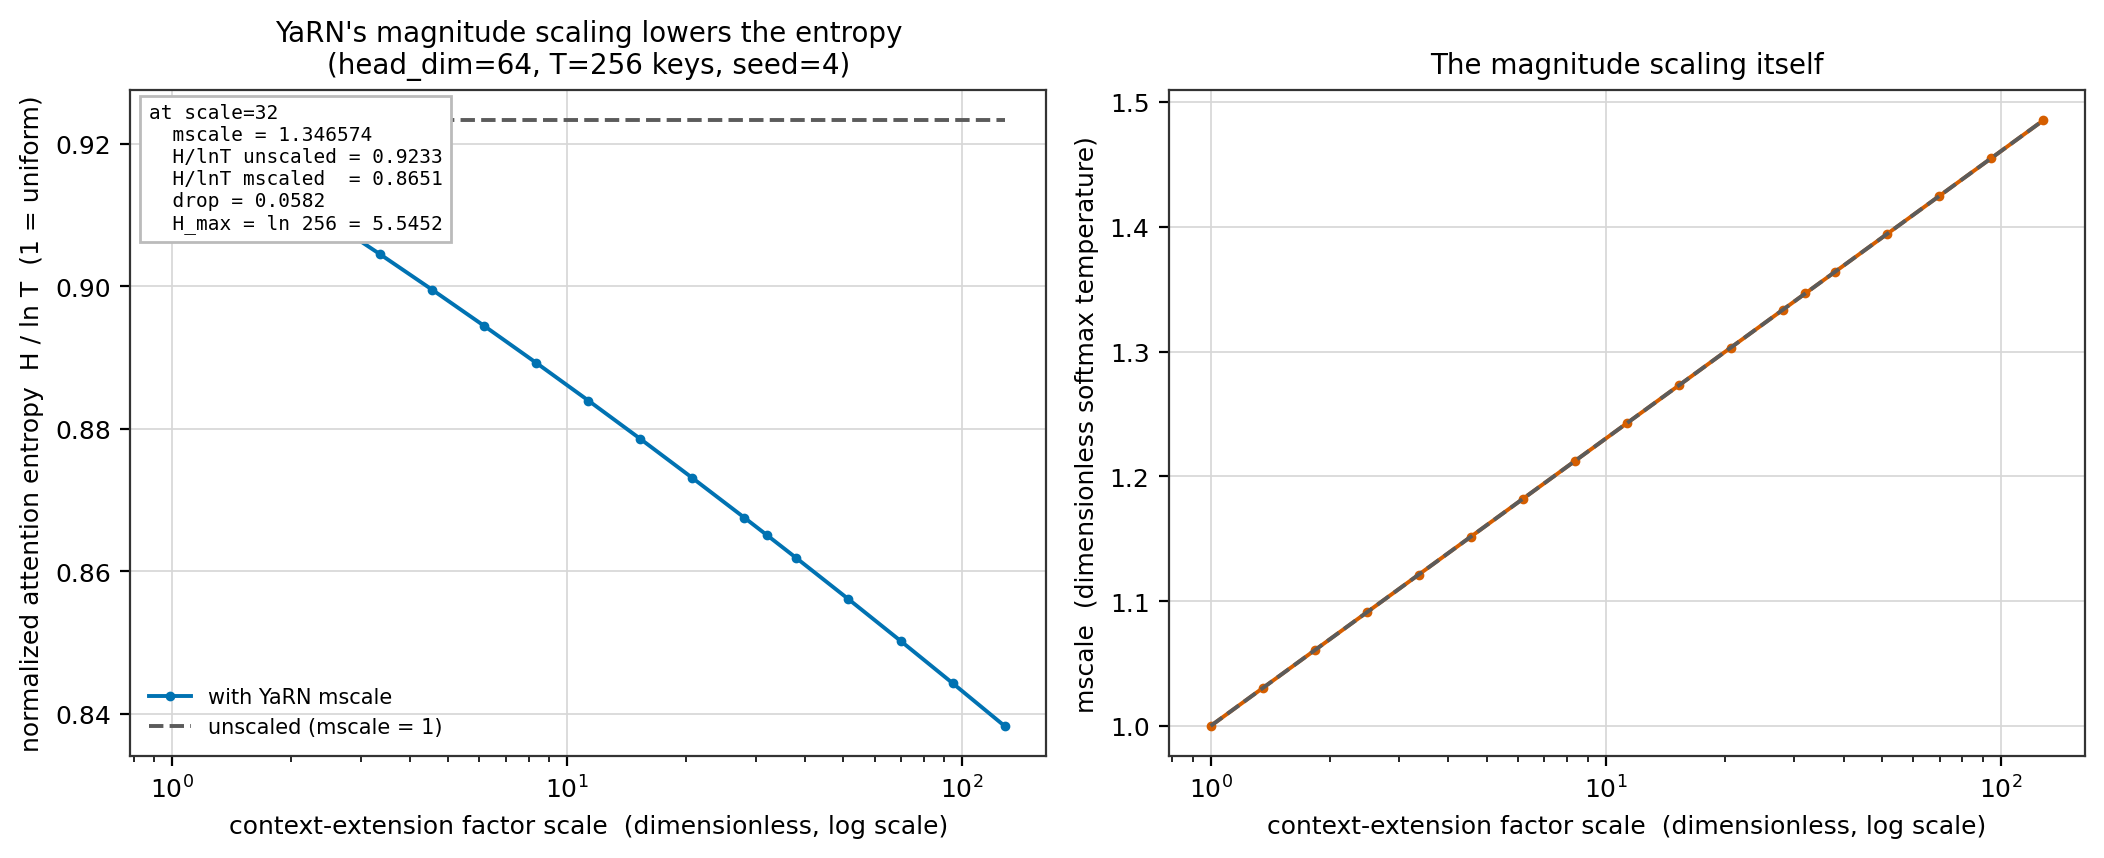
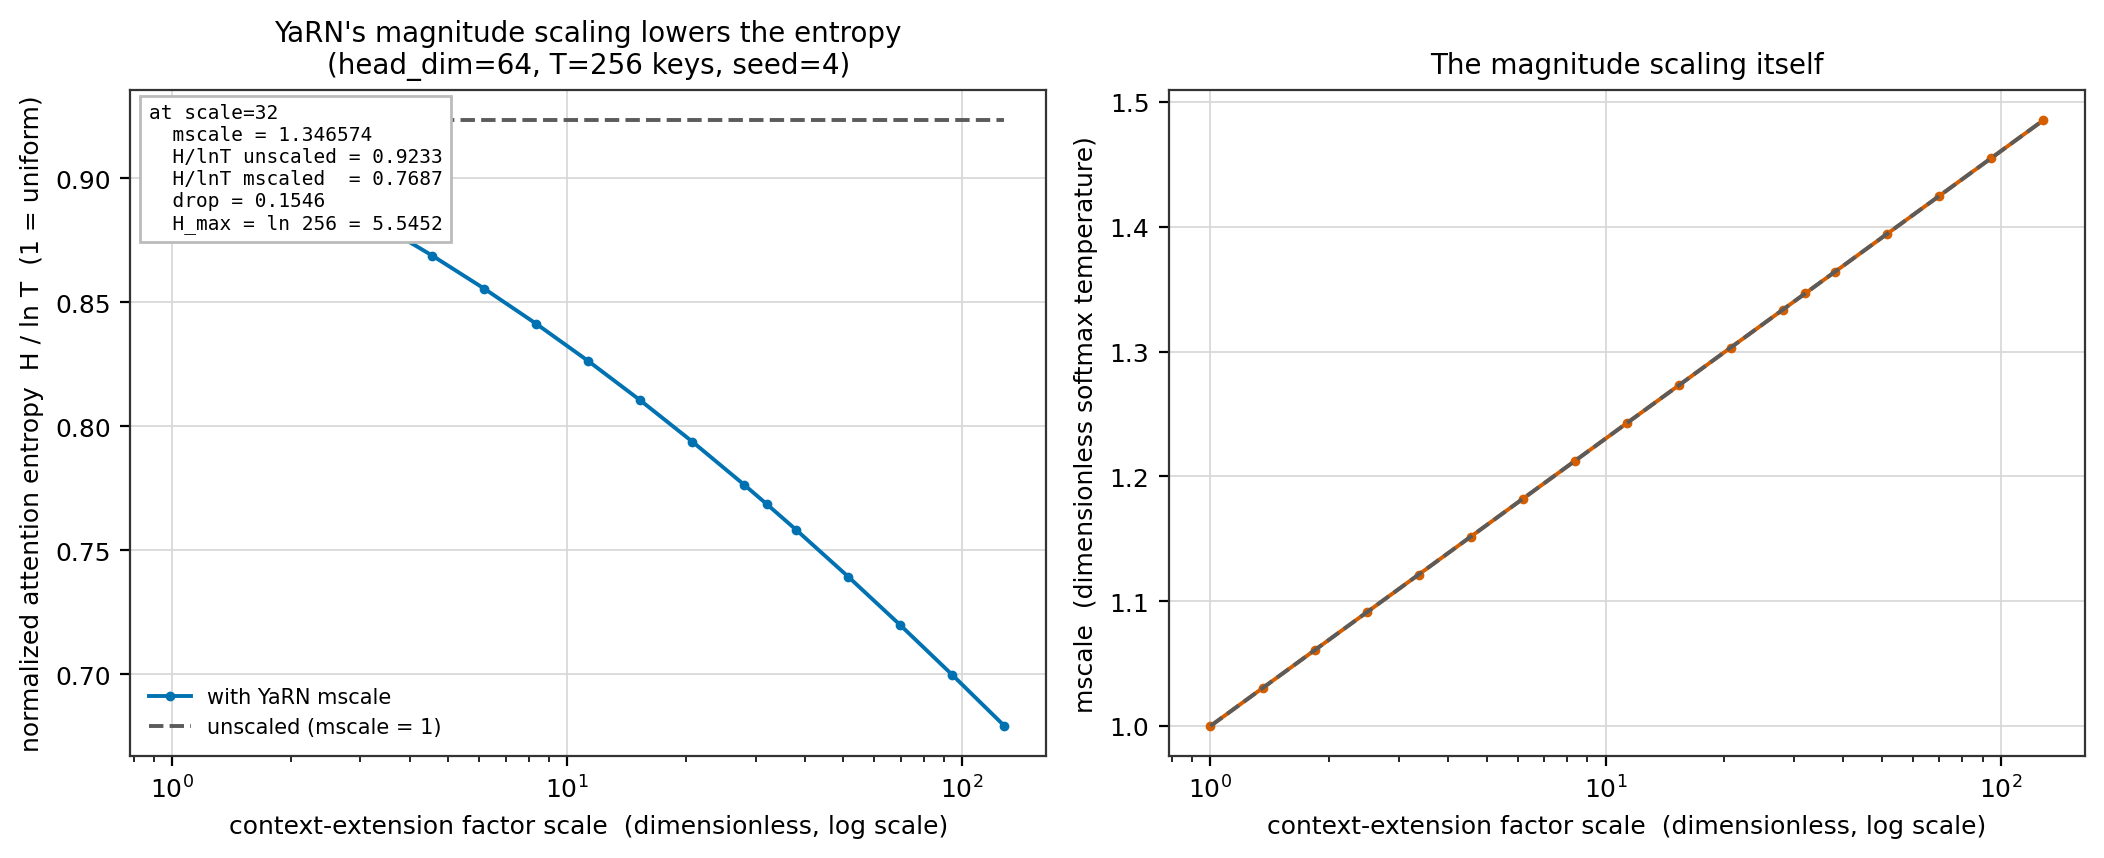
mscale: apply the YaRN factor the way the repo's own RoPE does, and fix a sentence that contradicted its own numbers
The experiment applied mscale once to the logits while rope.rope_cos_sin
scales the cos/sin tables and apply_rope consumes them for BOTH q and k, so a
logit carries mscale ** 2. The quoted entropy numbers were the once-applied
variant.

- experiments.mscale_entropy now builds its logits through
  rope_cos_sin(..., mscale) + apply_rope, so it can no longer drift from
  rope.py; the probe reproduces the faithful H/lnT 0.9233 -> 0.7687 (drop
  0.1546; absolute 5.1198 -> 4.2627 nats).
- results/measurements.json regenerated (entropy_mscaled 4.797042631875421 ->
  4.262667547726755; ratio 0.8650837019924513 -> 0.7687161665079636);
  figures/fig08 CSV and PNG and the figures/README.md row regenerated;
  README.md and LEGACY.md's maintained-measurement row updated.
- paper/main.tex: the appendix derives from the tables-times-two-operands
  semantics ("carries mscale^2 --- precisely a temperature"), the two quoted
  numbers move to 0.7687 / 0.6792, and the sentence that called 0.1546 a drop
  "in absolute nats" is corrected --- 0.1546 is the normalized drop, while
  5.1198 -> 4.2627 is the raw-entropy fall.
- tests: the detector recomputes with mscale**2 (it is the only test that
  rebuilds the entropies from an independent construction); pinned literals
  move to 4.262667547726755 / 0.7687161665079636; two paper registry patterns
  follow the corrected sentence, capturing the same values as before.

Mutation verdicts (run live):
- reverting only the mscale fix fails
[…]

diff --git a/paper/main.tex b/paper/main.tex
@@ -706,7 +706,7 @@ position-free attribution, whose failure is in R2.
 
 Two further findings are in the appendices, neither part of R1--R3:
 Appendix~\ref{sec:partial} (partial RoPE yields an \emph{exactly} position-free
-sub-score) and Appendix~\ref{sec:mscale} (\yarn's magnitude factor is exactly a
+sub-score) and Appendix~\ref{sec:mscale} (\yarn's magnitude factor acts as a
 temperature, monotone in entropy across $18$ scales).
 
 \section{Limitations}
@@ -888,8 +888,8 @@ Sec.~\ref{sec:partial} & $0.0$, $11.34$, $24.20$ & \texttt{measurements.json :: 
  & $0.302$, $0.187$ & \texttt{clean\_magnitude\_share\_mean}; fig07 \texttt{clean\_subscore} \\
  & $<10^{-13}$, $1.776\!\times\!10^{-15}$ & \texttt{partial\_norm\_deviation}; full-RoPE floor \\
 Sec.~\ref{sec:mscale} & $1.3465736$ & \texttt{measurements.json :: mscale\_entropy.mscale} \\
- & $0.9233 \to 0.8651$ & \texttt{entropy\_ratio\_unscaled}, \texttt{\_mscaled} \\
- & $0.8383$, $1.4852$ & \texttt{fig08} CSV at $\mathrm{scale} = 128$ \\
+ & $0.9233 \to 0.7687$ & \texttt{entropy\_ratio\_unscaled}, \texttt{\_mscaled} \\
+ & $0.6792$, $1.4852$ & \texttt{fig08} CSV at $\mathrm{scale} = 128$ \\
 \bottomrule
 \end{tabular}
 \end{table*}
@@ -1086,10 +1086,11 @@ suggestion that partial rotation damages the magnitude gate.
 \subsection{$\mathrm{mscale}$ is a temperature}
 \label{sec:mscale}
 
-\yarn's magnitude factor of Equation~\ref{eq:mscale} multiplies every logit,
-which is precisely a temperature on the attention distribution. At $s = 32$ we
-measure $\mathrm{mscale} = 1.3465736$, matching the closed form
-$0.1\ln 32 + 1$ to all printed digits.
+\yarn's magnitude factor of Equation~\ref{eq:mscale} scales the $\cos$ and
+$\sin$ tables, which RoPE applies to both the query and the key, so every logit
+carries $\mathrm{mscale}^2$ --- precisely a temperature on the attention
+distribution. At $s = 32$ we measure $\mathrm{mscale} = 1.3465736$, matching the
+closed form $0.1\ln 32 + 1$ to all printed digits.
 
 \paperfigure{fig08_mscale_entropy}{%
   Normalized attention entropy $H/\ln T$ against extension factor, with and
@@ -1100,9 +1101,9 @@ $0.1\ln 32 + 1$ to all printed digits.
 
 Figure~\ref{fig:entropy} plots this. With one query against $T = 256$ keys,
 $\mathrm{mscale}$ moves the normalized entropy from $H/\ln T = 0.9233$ to
-$0.8651$, a drop of $0.0582$ in absolute
-nats, from $5.1198$ to $4.7970$. Across the full range of $18$ extension
-factors from $1$ to $128$, the effect is monotone: $H/\ln T$ falls to $0.8383$
+$0.7687$, a drop of $0.1546$; the raw entropy
+falls from $5.1198$ to $4.2627$ nats. Across the full range of $18$ extension
+factors from $1$ to $128$, the effect is monotone: $H/\ln T$ falls to $0.6792$
 as $\mathrm{mscale}$ rises to $1.4852$. Lowering entropy is a sharpening of the
 attention distribution: fewer keys receive appreciable mass. This is a real,
 measurable, and easily overlooked side effect of context extension that is not

diff --git a/projects/rope_attribution/experiments.py b/projects/rope_attribution/experiments.py
@@ -456,7 +456,12 @@ def mscale_entropy(
     n_keys: int = 256,
     seed: int = 4,
 ) -> dict:
-    """YaRN's magnitude scaling as a temperature change on the attention distribution."""
+    """YaRN's magnitude scaling as a temperature change on the attention distribution.
+
+    ``rope_cos_sin`` scales the cos/sin tables by ``mscale`` and ``apply_rope``
+    consumes those tables for *both* the query and the key, so every attention
+    logit carries ``mscale ** 2`` -- the factor is applied once per operand.
+    """
     rng = _rng(seed)
     _, mscale = yarn_parameters(dim, 10000.0, scale, original_max_position_embeddings)
     freqs = inv_freq(dim)
@@ -465,19 +470,21 @@ def mscale_entropy(
     deltas = np.arange(1, n_keys + 1)
 
     pos = np.concatenate([[0], deltas])
-    cos, sin = rope_cos_sin(pos, freqs)
-    scores = apply_rope(q_hat[None, :], cos[0:1], sin[0:1])[0] @ apply_rope(
-        k_hat, cos[1:], sin[1:]
-    ).T
-    scores = scores / math.sqrt(dim)
+
+    def logits(table_scale: float) -> np.ndarray:
+        cos, sin = rope_cos_sin(pos, freqs, table_scale)
+        scores = apply_rope(q_hat[None, :], cos[0:1], sin[0:1])[0] @ apply_rope(
+            k_hat, cos[1:], sin[1:]
+        ).T
+        return scores / math.sqrt(dim)
 
     def entropy(s: np.ndarray) -> float:
         p = np.exp(s - s.max())
         p /= p.sum()
         return float(-(p * np.log(p + 1e-300)).sum())
 
-    h_base = entropy(scores)
-    h_scaled = entropy(scores * mscale)
+    h_base = entropy(logits(1.0))
+    h_scaled = entropy(logits(mscale))
     return {
         "n_keys": n_keys,
         "scale": scale,

diff --git a/tests/test_paper_claims.py b/tests/test_paper_claims.py
@@ -417,10 +417,10 @@ CLAIMS: tuple[Claim, ...] = (
     Claim("mscale_value", r"measure \$\\mathrm\{mscale\} = (1\.3465736)\$"),
     Claim("mscale_value_prov", r"&\s*\$(1\.3465736)\$ & \\texttt\{measurements\.json :: mscale"),
     Claim("entropy_from", r"normalized entropy from \$H/\\ln T = (\d\.\d+)\$ to"),
-    Claim("entropy_to", r"\$H/\\ln T = \d\.\d+\$ to \$(\d\.\d+)\$, a drop of \$(\d\.\d+)\$ in absolute"),
-    Claim("entropy_nats_from", r"nats, from \$(\d\.\d+)\$ to \$(\d\.\d+)\$"),
-    Claim("entropy_scale_range", r"factors from \$1\$ to \$(\d+)\$, the effect is monotone: \$H/\\ln T\$ falls to \$(0\.8383)\$ as \$\\mathrm\{mscale\}\$ rises to \$(1\.4852)\$"),
-    Claim("entropy_128_prov", r"&\s*\$(0\.8383)\$, \$(1\.4852)\$ & \\texttt\{fig08\} CSV at \$\\mathrm\{scale\} = (\d+)\$"),
+    Claim("entropy_to", r"\$H/\\ln T = \d\.\d+\$ to \$(\d\.\d+)\$, a drop of \$(\d\.\d+)\$"),
+    Claim("entropy_nats_from", r"raw entropy falls from \$(\d\.\d+)\$ to \$(\d\.\d+)\$ nats"),
+    Claim("entropy_scale_range", r"factors from \$1\$ to \$(\d+)\$, the effect is monotone: \$H/\\ln T\$ falls to \$(0\.6792)\$ as \$\\mathrm\{mscale\}\$ rises to \$(1\.4852)\$"),
+    Claim("entropy_128_prov", r"&\s*\$(0\.6792)\$, \$(1\.4852)\$ & \\texttt\{fig08\} CSV at \$\\mathrm\{scale\} = (\d+)\$"),
     Claim("entropy_prov_ratios", r"&\s*\$(\d\.\d+) \\to (\d\.\d+)\$ & \\texttt\{entropy"),
     # ---- the appendix's restatements -------------------------------------------
     Claim("prov_max_agreement", r"&\s*\$(0\.000)\\rad\$ agreement & \\texttt\{fig03\}"),

diff --git a/tests/test_experiments.py b/tests/test_experiments.py
@@ -1336,11 +1336,13 @@ def test_mscale_entropy_is_reproducible_from_the_documented_construction():
 
     reported = E.mscale_entropy()
     assert entropy(scores) == pytest.approx(reported["entropy_unscaled"], rel=1e-12)
-    assert entropy(scores * mscale) == pytest.approx(reported["entropy_mscaled"], rel=1e-12)
+    # mscale scales the cos/sin tables and RoPE applies them to both q and k, so
+    # a logit -- and with it the softmax -- carries mscale ** 2, not mscale.
+    assert entropy(scores * mscale**2) == pytest.approx(reported["entropy_mscaled"], rel=1e-12)
     assert reported["entropy_unscaled"] == pytest.approx(5.1198125583580145, rel=1e-9)
-    assert reported["entropy_mscaled"] == pytest.approx(4.797042631875421, rel=1e-9)
+    assert reported["entropy_mscaled"] == pytest.approx(4.262667547726755, rel=1e-9)
     assert reported["entropy_ratio_unscaled"] == pytest.approx(0.9232910235280181, rel=1e-9)
-    assert reported["entropy_ratio_mscaled"] == pytest.approx(0.8650837019924513, rel=1e-9)
+    assert reported["entropy_ratio_mscaled"] == pytest.approx(0.7687161665079636, rel=1e-9)
 
 
 # ==========================================================================

diff --git a/figures/README.md b/figures/README.md
@@ -38,7 +38,7 @@ plotted, so no claim has to be read off a pixel. Log axes clip at
 | `fig05_linearization_error.png` | experiments.method_spectrum -> amplitude_weighted_err and per_pair_err_rms | at delta=8192 the amplitude-weighted error is 1.24572e+06 for rope_base_10k and 1.24179e+06 for yarn, a ratio of only 0.996840. |
 | `fig06_pair_exact_vs_linear.png` | experiments.pair_terms(...).contributions() vs the Taylor form | the fastest rotary pair (k=0) has a normalized error as large as the term itself from delta=3 in plain RoPE and delta=3 in YaRN - the same, because YaRN does not touch that channel. |
 | `fig07_partial_rope.png` | recomputed here from rope.partial_rope_cos_sin + rope.apply_partial_rope, cross-checked against experiments.partial_rope_split(seed=3) | the clean (unrotated) sub-score varies by 0.000e+00 across all 54 distances, while the rotated sub-score varies by 24.2017. |
-| `fig08_mscale_entropy.png` | experiments.mscale_entropy over 18 values of scale, seed=4 | at scale=32, mscale=1.346574 pulls H/lnT from 0.9233 down to 0.8651, a drop of 0.0582. |
+| `fig08_mscale_entropy.png` | experiments.mscale_entropy over 18 values of scale, seed=4 | at scale=32, mscale=1.346574 pulls H/lnT from 0.9233 down to 0.7687, a drop of 0.1546. |
 | `fig09_position_conditional_attribution.png` | recomputed from experiments.score_relative on a synthetic SAE-like decomposition identical to experiments.feature_attribution(seed=1) | 8 of 8 features reverse sign somewhere in the range [1, 8192], with the score still additive to 4.974e-14. The magnitudes at the two ends of the range agree to within 10^-0.19, so what changes across distance is which way the contribution points, not how large it is. The max/min ratio this figure was once described by is a grid-density artefact, is deliberately not plotted, and is disproven against grid density in rope_attribution.statistics; the quantities to trust are the sign change and the additivity residual. |
 | `fig10_seed_variance.png` | rope_attribution.statistics.contribution_grid over 12 seeds starting at 20250929, 48 distances (54 requested), F=8 | all 12 seeds give a sign-crossing fraction of 1.0000 (SD 0.0000); the coefficient of variation is 0.7019 +/- 0.0263, and the endpoint log-ratio averages -0.0834 (SD 0.2365), so the two endpoints agree and the reversal is interior. |
 | `fig11_sensitivity_sweep.png` | results/sensitivity.json as regenerated by rope_attribution.sensitivity (12 configs, 3 seeds each); grid asserted against the module | across bases at head dim 64 the rate spans 18.3% to 32.0%; across head dims at base 1e4 it stays within 25.6% to 26.3%; the median relative error never drops below 1.0 (1.03 to 1.18 across the sweep). |

diff --git a/LEGACY.md b/LEGACY.md
@@ -266,7 +266,7 @@ From `results/measurements.json` (produced by
 | per-pair closed form vs brute force | `3.6e-15` | `experiments.py:209` |
 | per-feature contribution spread across distance | `43.0x` on the 5-point grid — **withdrawn**: a `max/min` over a sampled grid, it grows without bound as the grid gets denser (`920x` on the 54-point grid, drifting 30.9x across six densities). The paper now reports sign reversal instead. See `projects/rope_attribution/statistics.py`. | `experiments.py:273` |
 | `mscale` at `scale = 32` | `1.3466` | `experiments.py:452` |
-| attention entropy `H/lnT`, unscaled → mscaled | `0.9233 → 0.8651` | `experiments.py:456-457` |
+| attention entropy `H/lnT`, unscaled → mscaled | `0.9233 → 0.7687` | `experiments.py:456-457` |
 
 The legacy tree's equivalents (`3.55e-15`, `0.62`, `0.089`, `0.2/0.7/0.75`,
 `111.7°`) have no measured counterpart anywhere in this repository.

diff --git a/README.md b/README.md
@@ -273,8 +273,9 @@ instead leaves every touched pair half rotated and half not; that variant is not
 orthogonal and is not what any published model does.
 
 **YaRN's magnitude term is a temperature.** `mscale = 0.1 * ln(factor) + 1`
-(`1.3466` at `scale = 32`) multiplies all logits, pulling attention entropy from
-`H/ln T = 0.923` to `0.865` (`figures/fig08`).
+(`1.3466` at `scale = 32`) scales the cos/sin tables RoPE applies to both the
+query and the key, so every logit carries `mscale^2`, pulling attention entropy
+from `H/ln T = 0.923` to `0.769` (`figures/fig08`).
 
 ## Correcting the earlier drafts
 
